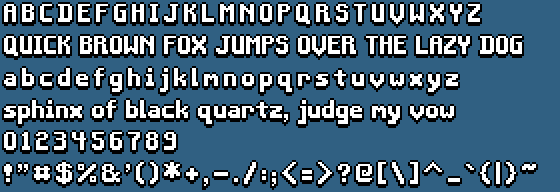
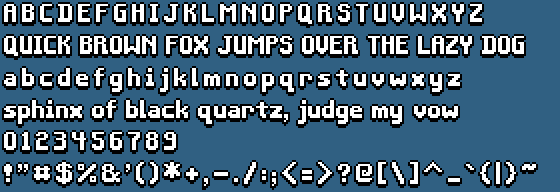
Fix some glyphs in Good Neighbors font

Changed region(s): [[0.2125, 0.0, 0.9411, 0.3125], [0.3643, 0.3438, 0.85, 0.5], [0.6679, 0.5312, 0.8196, 0.6562]]

diff --git a/release/js/bitfont.js b/release/js/bitfont.js
@@ -79,59 +79,59 @@ bitfont.init = function() {
   bitfont.glyph_x["J"] = 357; bitfont.glyph_w["J"] = 9;
   bitfont.glyph_x["K"] = 367; bitfont.glyph_w["K"] = 8;
   bitfont.glyph_x["L"] = 376; bitfont.glyph_w["L"] = 8;
-  bitfont.glyph_x["M"] = 385; bitfont.glyph_w["M"] = 9;
-  bitfont.glyph_x["N"] = 395; bitfont.glyph_w["N"] = 9;
-  bitfont.glyph_x["O"] = 405; bitfont.glyph_w["O"] = 8;
-  bitfont.glyph_x["P"] = 414; bitfont.glyph_w["P"] = 8;
-  bitfont.glyph_x["Q"] = 423; bitfont.glyph_w["Q"] = 9;
-  bitfont.glyph_x["R"] = 433; bitfont.glyph_w["R"] = 9;
-  bitfont.glyph_x["S"] = 443; bitfont.glyph_w["S"] = 8;
-  bitfont.glyph_x["T"] = 452; bitfont.glyph_w["T"] = 8;
-  bitfont.glyph_x["U"] = 461; bitfont.glyph_w["U"] = 8;
-  bitfont.glyph_x["V"] = 470; bitfont.glyph_w["V"] = 9;
-  bitfont.glyph_x["W"] = 480; bitfont.glyph_w["W"] = 9;
-  bitfont.glyph_x["X"] = 490; bitfont.glyph_w["X"] = 9;
-  bitfont.glyph_x["Y"] = 500; bitfont.glyph_w["Y"] = 8;
-  bitfont.glyph_x["Z"] = 509; bitfont.glyph_w["Z"] = 8;
+  bitfont.glyph_x["M"] = 385; bitfont.glyph_w["M"] = 10;
+  bitfont.glyph_x["N"] = 396; bitfont.glyph_w["N"] = 9;
+  bitfont.glyph_x["O"] = 406; bitfont.glyph_w["O"] = 8;
+  bitfont.glyph_x["P"] = 415; bitfont.glyph_w["P"] = 8;
+  bitfont.glyph_x["Q"] = 424; bitfont.glyph_w["Q"] = 9;
+  bitfont.glyph_x["R"] = 434; bitfont.glyph_w["R"] = 9;
+  bitfont.glyph_x["S"] = 444; bitfont.glyph_w["S"] = 8;
+  bitfont.glyph_x["T"] = 453; bitfont.glyph_w["T"] = 8;
+  bitfont.glyph_x["U"] = 462; bitfont.glyph_w["U"] = 8;
+  bitfont.glyph_x["V"] = 471; bitfont.glyph_w["V"] = 8;
+  bitfont.glyph_x["W"] = 480; bitfont.glyph_w["W"] = 10;
+  bitfont.glyph_x["X"] = 491; bitfont.glyph_w["X"] = 9;
+  bitfont.glyph_x["Y"] = 501; bitfont.glyph_w["Y"] = 8;
+  bitfont.glyph_x["Z"] = 510; bitfont.glyph_w["Z"] = 8;
 
-  bitfont.glyph_x["["] = 518; bitfont.glyph_w["["] = 6;
-  bitfont.glyph_x["\\"] = 525; bitfont.glyph_w["\\"] = 8;
-  bitfont.glyph_x["]"] = 534; bitfont.glyph_w["]"] = 6;
-  bitfont.glyph_x["^"] = 541; bitfont.glyph_w["^"] = 11;
-  bitfont.glyph_x["_"] = 553; bitfont.glyph_w["_"] = 8;
-  bitfont.glyph_x["`"] = 562; bitfont.glyph_w["`"] = 6;
+  bitfont.glyph_x["["] = 519; bitfont.glyph_w["["] = 6;
+  bitfont.glyph_x["\\"] = 526; bitfont.glyph_w["\\"] = 8;
+  bitfont.glyph_x["]"] = 535; bitfont.glyph_w["]"] = 6;
+  bitfont.glyph_x["^"] = 542; bitfont.glyph_w["^"] = 11;
+  bitfont.glyph_x["_"] = 554; bitfont.glyph_w["_"] = 8;
+  bitfont.glyph_x["`"] = 563; bitfont.glyph_w["`"] = 6;
 
-  bitfont.glyph_x["a"] = 569; bitfont.glyph_w["a"] = 8;
-  bitfont.glyph_x["b"] = 578; bitfont.glyph_w["b"] = 8;
-  bitfont.glyph_x["c"] = 587; bitfont.glyph_w["c"] = 8;
-  bitfont.glyph_x["d"] = 596; bitfont.glyph_w["d"] = 8;
-  bitfont.glyph_x["e"] = 605; bitfont.glyph_w["e"] = 8;
-  bitfont.glyph_x["f"] = 614; bitfont.glyph_w["f"] = 7;
-  bitfont.glyph_x["g"] = 622; bitfont.glyph_w["g"] = 8;
-  bitfont.glyph_x["h"] = 631; bitfont.glyph_w["h"] = 8;
-  bitfont.glyph_x["i"] = 640; bitfont.glyph_w["i"] = 6;
-  bitfont.glyph_x["j"] = 647; bitfont.glyph_w["j"] = 6;
-  bitfont.glyph_x["k"] = 654; bitfont.glyph_w["k"] = 8;
-  bitfont.glyph_x["l"] = 663; bitfont.glyph_w["l"] = 5;
-  bitfont.glyph_x["m"] = 669; bitfont.glyph_w["m"] = 9;
-  bitfont.glyph_x["n"] = 679; bitfont.glyph_w["n"] = 8;
-  bitfont.glyph_x["o"] = 688; bitfont.glyph_w["o"] = 8;
-  bitfont.glyph_x["p"] = 697; bitfont.glyph_w["p"] = 8;
-  bitfont.glyph_x["q"] = 706; bitfont.glyph_w["q"] = 9;
-  bitfont.glyph_x["r"] = 716; bitfont.glyph_w["r"] = 8;
-  bitfont.glyph_x["s"] = 725; bitfont.glyph_w["s"] = 8;
-  bitfont.glyph_x["t"] = 734; bitfont.glyph_w["t"] = 8;
-  bitfont.glyph_x["u"] = 743; bitfont.glyph_w["u"] = 8;
-  bitfont.glyph_x["v"] = 752; bitfont.glyph_w["v"] = 9;
-  bitfont.glyph_x["w"] = 762; bitfont.glyph_w["w"] = 9;
-  bitfont.glyph_x["x"] = 772; bitfont.glyph_w["x"] = 8;
-  bitfont.glyph_x["y"] = 781; bitfont.glyph_w["y"] = 8;
-  bitfont.glyph_x["z"] = 790; bitfont.glyph_w["z"] = 8;
+  bitfont.glyph_x["a"] = 570; bitfont.glyph_w["a"] = 8;
+  bitfont.glyph_x["b"] = 579; bitfont.glyph_w["b"] = 8;
+  bitfont.glyph_x["c"] = 588; bitfont.glyph_w["c"] = 8;
+  bitfont.glyph_x["d"] = 597; bitfont.glyph_w["d"] = 8;
+  bitfont.glyph_x["e"] = 606; bitfont.glyph_w["e"] = 8;
+  bitfont.glyph_x["f"] = 615; bitfont.glyph_w["f"] = 7;
+  bitfont.glyph_x["g"] = 623; bitfont.glyph_w["g"] = 8;
+  bitfont.glyph_x["h"] = 632; bitfont.glyph_w["h"] = 8;
+  bitfont.glyph_x["i"] = 641; bitfont.glyph_w["i"] = 6;
+  bitfont.glyph_x["j"] = 648; bitfont.glyph_w["j"] = 6;
+  bitfont.glyph_x["k"] = 655; bitfont.glyph_w["k"] = 8;
+  bitfont.glyph_x["l"] = 664; bitfont.glyph_w["l"] = 5;
+  bitfont.glyph_x["m"] = 670; bitfont.glyph_w["m"] = 10;
+  bitfont.glyph_x["n"] = 681; bitfont.glyph_w["n"] = 8;
+  bitfont.glyph_x["o"] = 690; bitfont.glyph_w["o"] = 8;
+  bitfont.glyph_x["p"] = 699; bitfont.glyph_w["p"] = 8;
+  bitfont.glyph_x["q"] = 708; bitfont.glyph_w["q"] = 9;
+  bitfont.glyph_x["r"] = 718; bitfont.glyph_w["r"] = 8;
+  bitfont.glyph_x["s"] = 727; bitfont.glyph_w["s"] = 8;
+  bitfont.glyph_x["t"] = 736; bitfont.glyph_w["t"] = 8;
+  bitfont.glyph_x["u"] = 745; bitfont.glyph_w["u"] = 8;
+  bitfont.glyph_x["v"] = 754; bitfont.glyph_w["v"] = 9;
+  bitfont.glyph_x["w"] = 763; bitfont.glyph_w["w"] = 10;
+  bitfont.glyph_x["x"] = 774; bitfont.glyph_w["x"] = 8;
+  bitfont.glyph_x["y"] = 783; bitfont.glyph_w["y"] = 8;
+  bitfont.glyph_x["z"] = 792; bitfont.glyph_w["z"] = 8;
   
-  bitfont.glyph_x["{"] = 799; bitfont.glyph_w["{"] = 7;
-  bitfont.glyph_x["|"] = 807; bitfont.glyph_w["|"] = 4;
-  bitfont.glyph_x["}"] = 812; bitfont.glyph_w["}"] = 7;
-  bitfont.glyph_x["~"] = 820; bitfont.glyph_w["~"] = 9;
+  bitfont.glyph_x["{"] = 801; bitfont.glyph_w["{"] = 7;
+  bitfont.glyph_x["|"] = 809; bitfont.glyph_w["|"] = 4;
+  bitfont.glyph_x["}"] = 814; bitfont.glyph_w["}"] = 7;
+  bitfont.glyph_x["~"] = 822; bitfont.glyph_w["~"] = 9;
 }
 
 /**

diff --git a/release/js/gamestate.js b/release/js/gamestate.js
@@ -122,10 +122,10 @@ gamestate.render = function() {
       
     case gamestate.state_types.PLAY:    
     
-      //bitfont.render("THE QUICK BROWN FOX JUMPS OVER THE LAZY DOG", 8, 8, bitfont.JUSTIFY_LEFT);
-      //bitfont.render("the quick brown fox jumps over the lazy dog", 8, 20, bitfont.JUSTIFY_LEFT);
-      //bitfont.render("SPHINX OF BLACK QUARTZ, JUDGE MY VOW!", 8, 32, bitfont.JUSTIFY_LEFT);
-      //bitfont.render("sphinx of black quartz, judge my vow!", 8, 44, bitfont.JUSTIFY_LEFT);
+      //bitfont.render("THE QUICK BROWN FOX JUMPS OVER THE LAZY DOG", 8, 80, bitfont.JUSTIFY_LEFT);
+      //bitfont.render("the quick brown fox jumps over the lazy dog", 8, 96, bitfont.JUSTIFY_LEFT);
+      //bitfont.render("SPHINX OF BLACK QUARTZ, JUDGE MY VOW!", 8, 112, bitfont.JUSTIFY_LEFT);
+      //bitfont.render("sphinx of black quartz, judge my vow!", 8, 128, bitfont.JUSTIFY_LEFT);
       
       conveyor.render();
       items.render();
@@ -149,8 +149,6 @@ gamestate.render = function() {
       else {
         bitfont.render("High Score: " + scorekeeper.current_high_score, 200, 112, bitfont.JUSTIFY_CENTER);
       }
-      
-      // bitfont.render("Refresh to try again.", 200, 128, bitfont.JUSTIFY_CENTER);
       
       if (items.ilist.length == 0) {
         title.render_button("Try Again", title.play_button_area);
